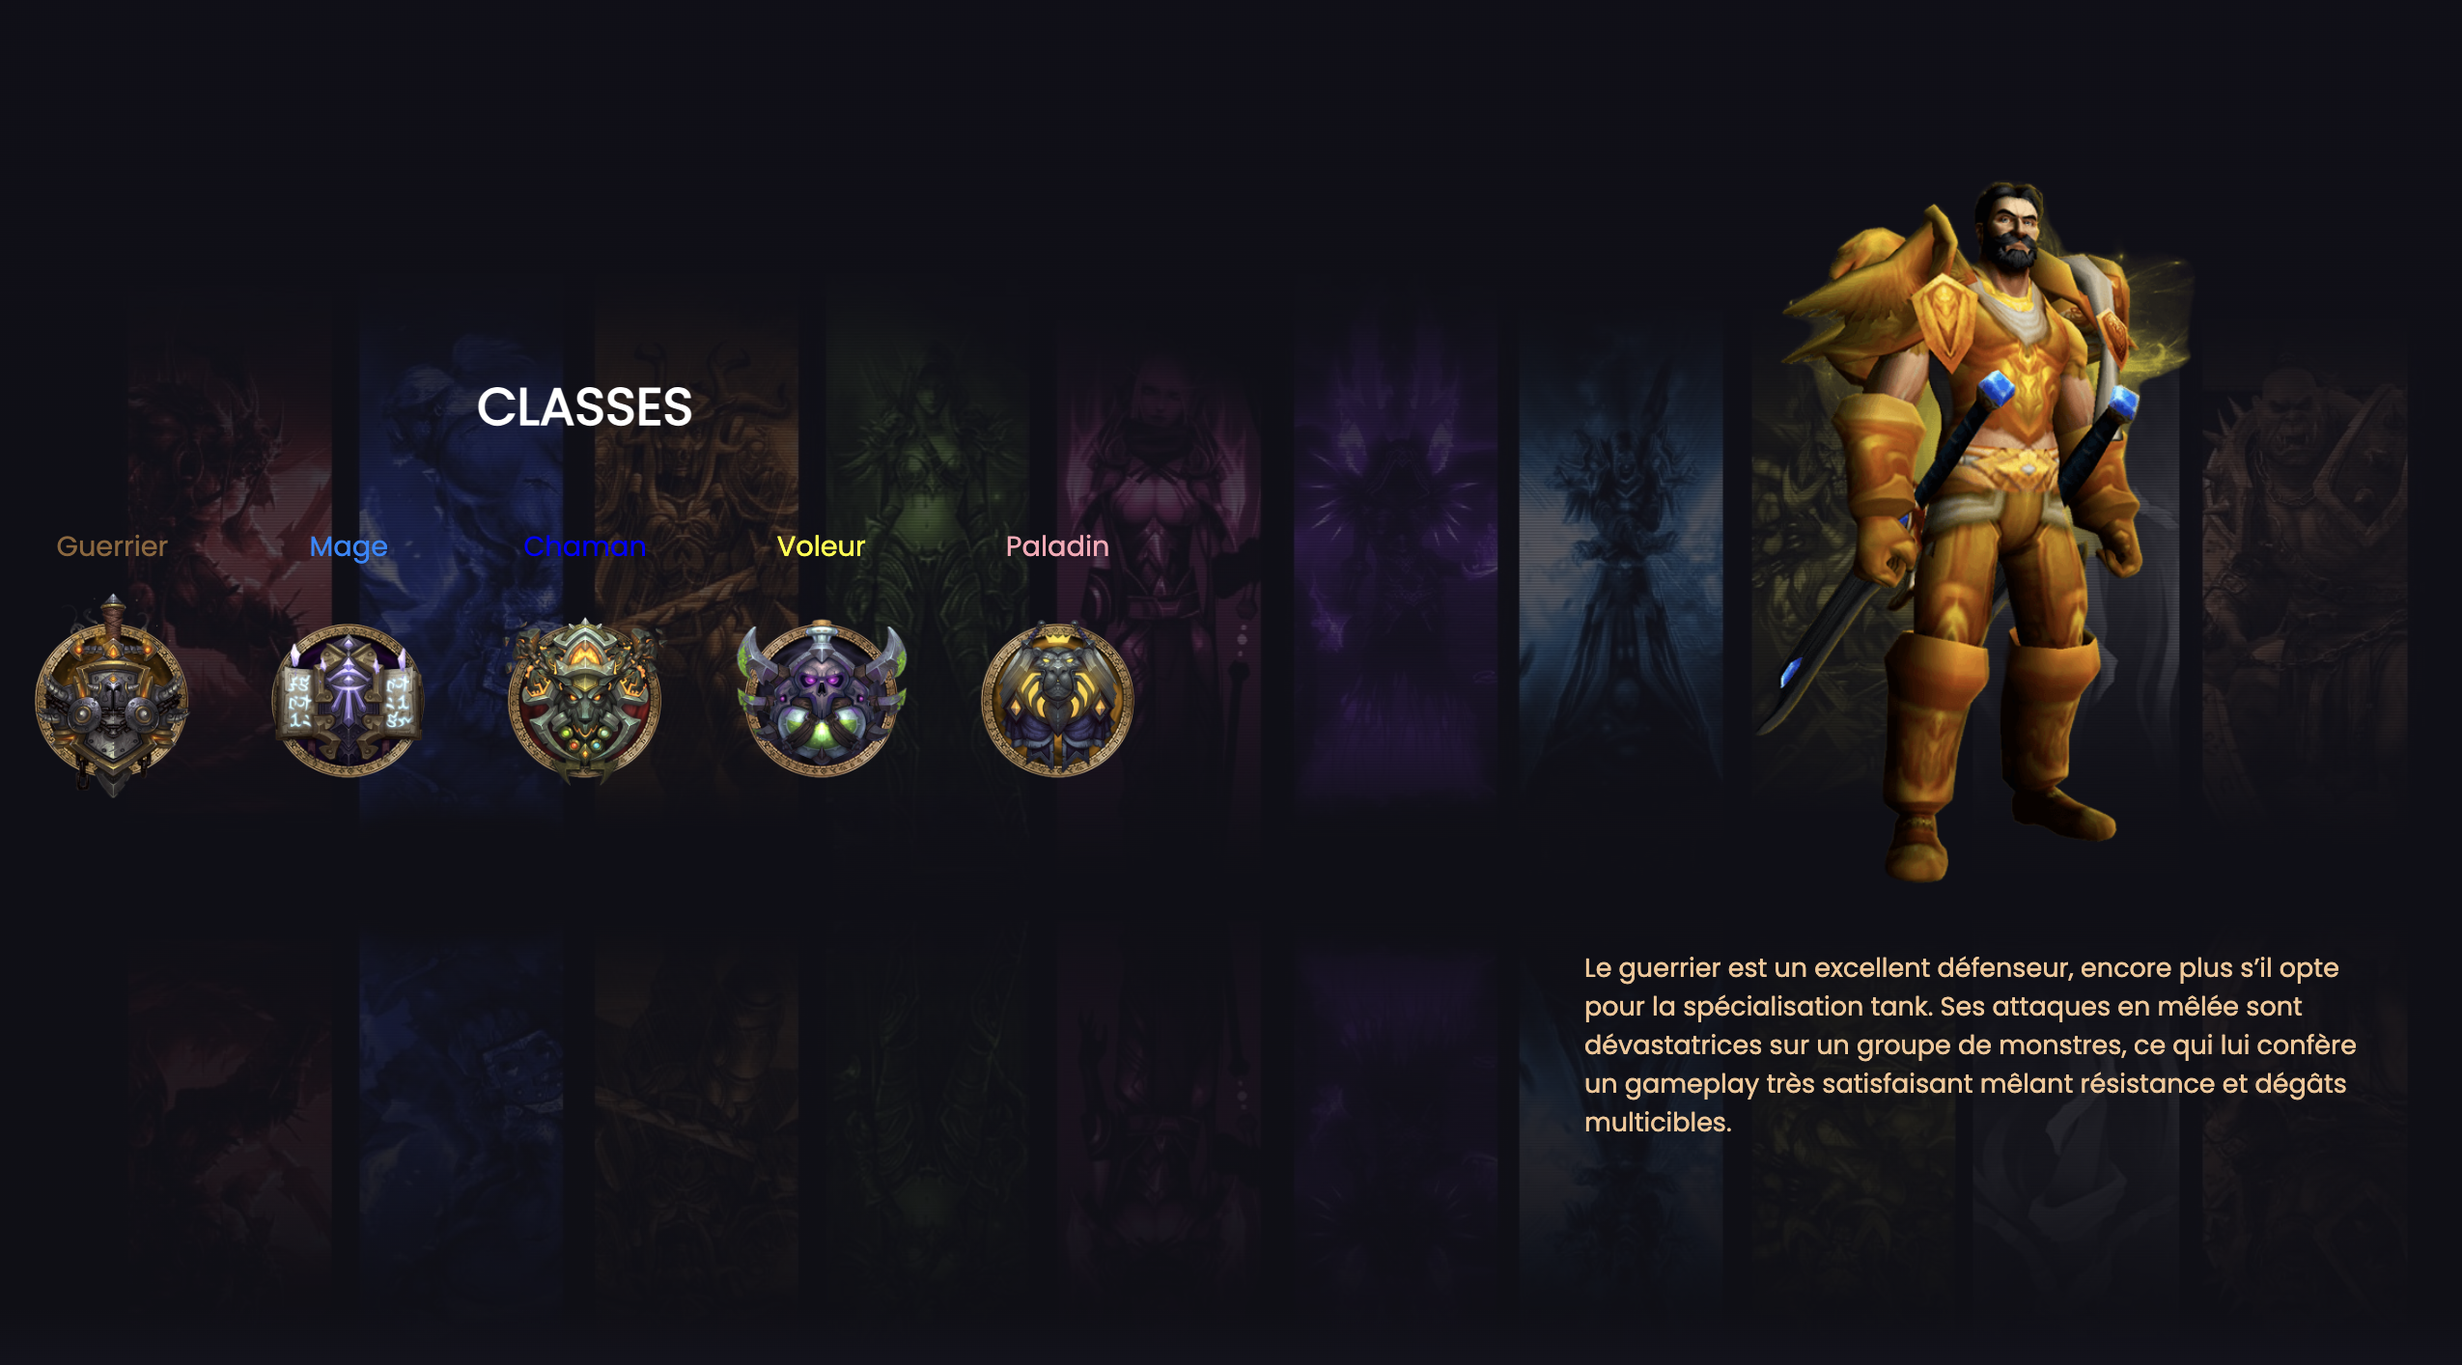
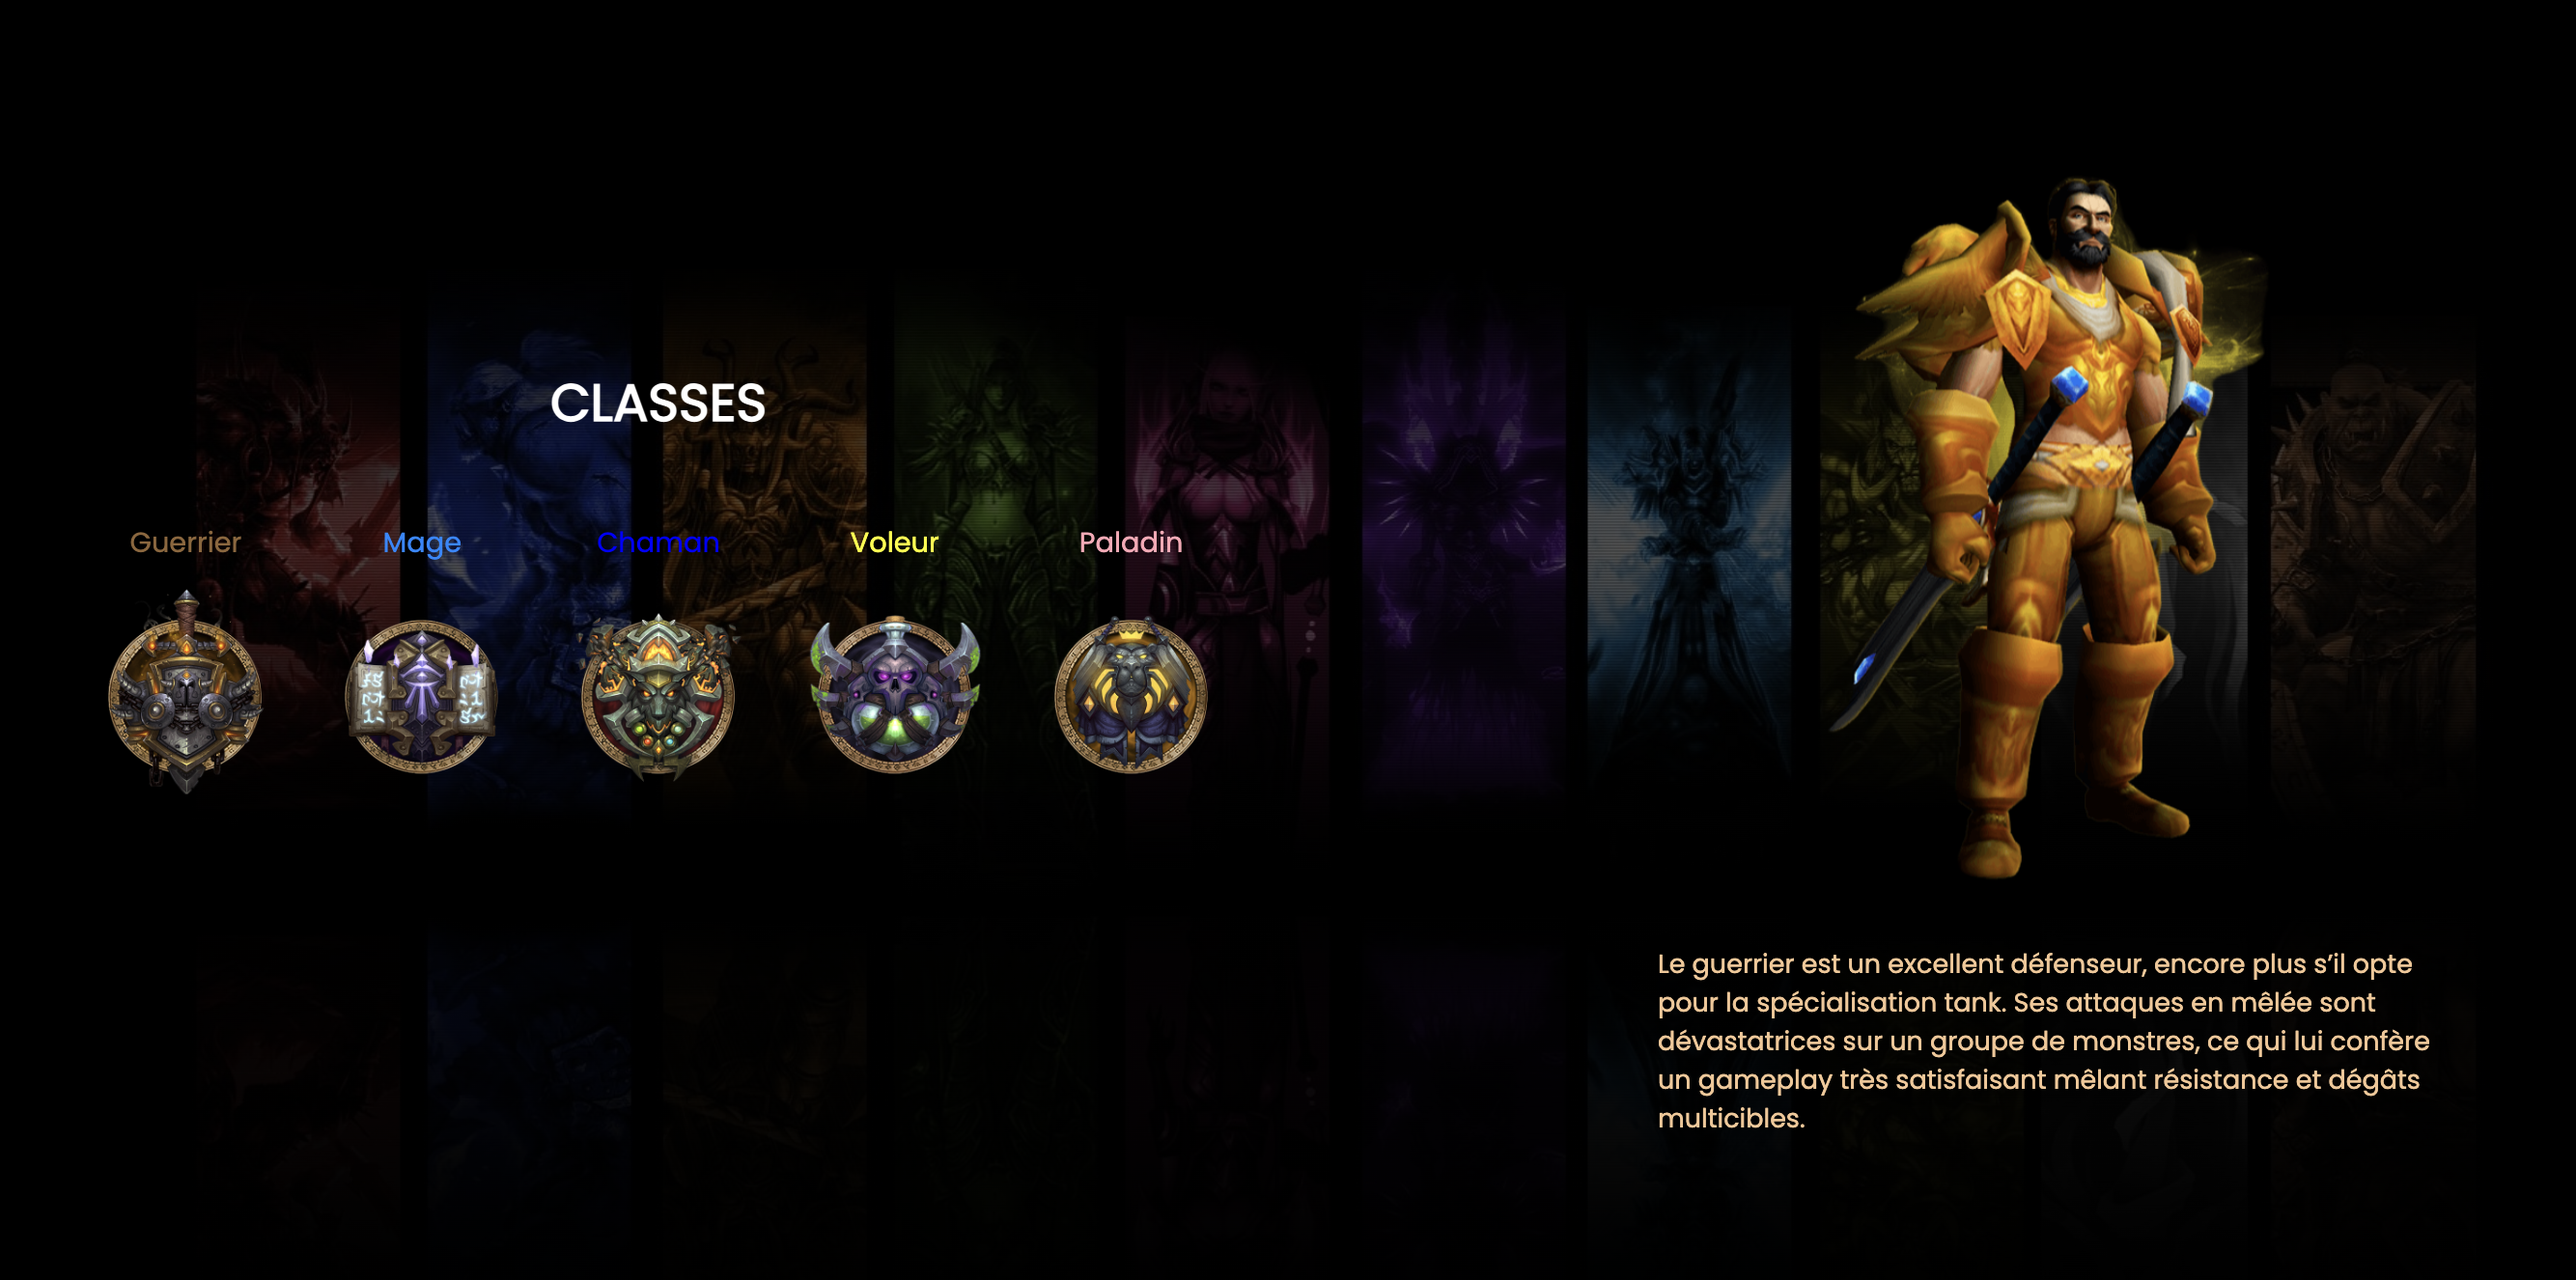
update footsection mediaq

Changed region(s): [[0.0, 0.1237, 1.0, 1.0], [0.3408, 0.773, 0.3718, 0.8348], [0.3718, 0.8658, 0.4027, 0.8967]]

diff --git a/css/style.css b/css/style.css
@@ -75,7 +75,6 @@ body {
 }
 
 .btn {
-  margin-top: 30px;
   margin-right: 280px;
   padding: 15px;
   width: 200px;
@@ -335,65 +334,36 @@ a {
   font-size: 14px;
 }
 
-#footsection::before,
-#footsection::after {
-  content: "";
-  position: absolute;
-  width: 100%;
-  height: 30px;
-  pointer-events: none;
-}
-
-#footsection::before {
-  background: linear-gradient(to top, #19182600, rgb(0 0 0 / 22%));
-}
-
-#footsection::after {
-  bottom: 0;
-  background: linear-gradient(to top, rgba(0, 0, 0, 0), rgba(0, 0, 0, 0));
-}
 
 #footsection {
   width: 100%;
-  height: 100vh;
-  position: relative;
+  height: 800px;
+  background: linear-gradient(rgba(0, 0, 0, 0.418), rgb(0, 0, 0)),url('../images/paysa.jpeg') center/cover;
+  background-repeat: no-repeat;
 }
 
-#footsection::before {
-  content: "";
-  background-image: url(../images/paysa.jpeg);
-  opacity: 0.3;
-  background-repeat: no-repeat;
-  background-size: cover;
-  position: absolute;
-  top: 0;
-  left: 0;
-  width: 100%;
-  height: 100%;
-  z-index: -1;
-}
+
 
 .contain_fo {
   display: flex;
+  justify-content: space-evenly;
   align-items: center;
-  justify-content: center;
   width: 100%;
-  height: 100vh;
-  gap: 5rem;
+  height: 750px;
 }
 
 .foo {
-  width: 400px;
-  height: 300px;
+  width: 500px;
+  height: 200px;
 }
 
-.ti p {
-  font-size: 3rem;
+.ti  {
+  font-size: 2em;
   color: rgb(255, 255, 255);
   margin-top: 0;
   margin-bottom: 20px;
   text-transform: uppercase;
-  text-shadow: 3px 5px 5px rgba(0, 0, 0, 0.5);
+
 }
 
 .tex {
@@ -412,7 +382,6 @@ a {
 
 footer {
   width: 100%;
-  height: 30vh;
 }
 
 .fx {
@@ -646,7 +615,7 @@ footer {
     display: flex;
     justify-content: center;
     width: 100%;
-    gap: 0;
+    height: 750px;
   }
 
    .foo {
@@ -712,6 +681,8 @@ footer {
 
   .btn {
     margin-right: 270px;
+    padding: 10px;
+    width: 170px;
   }
 
   /*///MIDDLE/////*/
@@ -775,30 +746,20 @@ footer {
   /*MIDSECTION*/
 
   .contain_fo {
-    padding: 20px;
+    padding: 0 !important;
     display: flex;
     flex-direction: column;
     justify-content: center;
+    align-items: center;
     width: 100%;
+    height: 750px;
   }
-
-  /*.contain_fo {
-    padding: 20px;
-    display: flex;
-    align-content: center;
-    justify-content: center;
-    width: 100%;
-  }*/
 
   .foo {
-    width: 400px;
-    height: 250px;
+    height: 200px;
   }
 
-  .ti p {
-    text-align: center;
-    font-size: 25px !important;
-  }
+
 
   .tex {
     width: 100%;
@@ -806,8 +767,13 @@ footer {
     color: rgb(246, 198, 147);
   }
 
+  .ti{
+    font-size: 19px !important;
+  }
+
   .tex p {
     text-align: center;
+    font-size: 12px;
   }
 
   .fun img {
@@ -962,9 +928,10 @@ footer {
 
   .contain_fo {
     display: flex;
-    justify-content: center;
+    justify-content: space-evenly;
     align-items: center;
     width: 100%;
+    height: 750px;
     padding: 0 !important;
   }
 
@@ -991,33 +958,21 @@ footer {
     width: 100%;
     height: auto;
   }
-
-  .ti {
-    width: 100%;
-  }
-
   .foo {
     width: 100%;
     height: auto;
   }
 
-  .ti p {
-    text-align: center;
-    width: 100%;
-    height: auto;
-    color: rgb(255, 255, 255);
-    margin-top: 0;
-    text-transform: uppercase;
-    text-shadow: 3px 5px 5px rgba(0, 0, 0, 0.5);
-  }
-
-  .tex {
-   
-  }
+  .ti  {
+  color: rgb(255, 255, 255) !important;
+  margin-top: 0;
+  overflow: hidden;
+}
+ 
 
   .tex p {
     text-align: center;
-    font-size: 20px;
+    font-size: 12px;
      color: rgb(246, 198, 147);
 
 
@@ -1039,7 +994,7 @@ footer {
   }
 
   .fun img{
-    max-width: 100%;
+    max-width: 90%;
     height: auto;
   }
 
@@ -1137,9 +1092,8 @@ footer {
   }
 
   .btn {
-    margin-top: 30px;
-    padding: 15px;
-    width: 200px;
+    padding: 10px;
+    width: 160px;
     border: 2px solid orange;
     border-radius: 25px;
     background-color: #ffffff00;
@@ -1184,4 +1138,11 @@ footer {
   .ftxx {
     text-align: center;
   }
+
+  #footsection {
+  width: 100%;
+  height: 800px;
+
+}
+
 }

diff --git a/index.html b/index.html
@@ -245,11 +245,9 @@
 
         <div class="contain_fo">
             <div class="foo">
-                <div class="ti">
-                    <p>Rejoignez la communauté!
-                    </p>
-                </div>
                 <div class="tex">
+                    <p class="ti">Rejoignez la communauté!
+                    </p>
                     <p>Rejoignez notre Discord, partagez votre histoire et vos suggestions
                         - discutez des tactiques de raid, recherchez des amis dans l'arène et les donjons !</p>
                 </div>
@@ -270,16 +268,6 @@
 
     </div>
     <footer>
-        <div class="fx">
-
-            <ul>
-                <li><a href="#"></a>CONDITIONS D'UTILISATION</li>
-                <li><a href="#"></a>POLITIQUE DE CONFIDENTIALITÉ</li>
-        
-                <li><a href="#"></a>FAQ</li>
-            </ul>
-
-        </div>
         <div class="ftxx">
             <p>Toutes les marques référencées ici sont la propriété de leurs propriétaires respectifs.
             </p>
